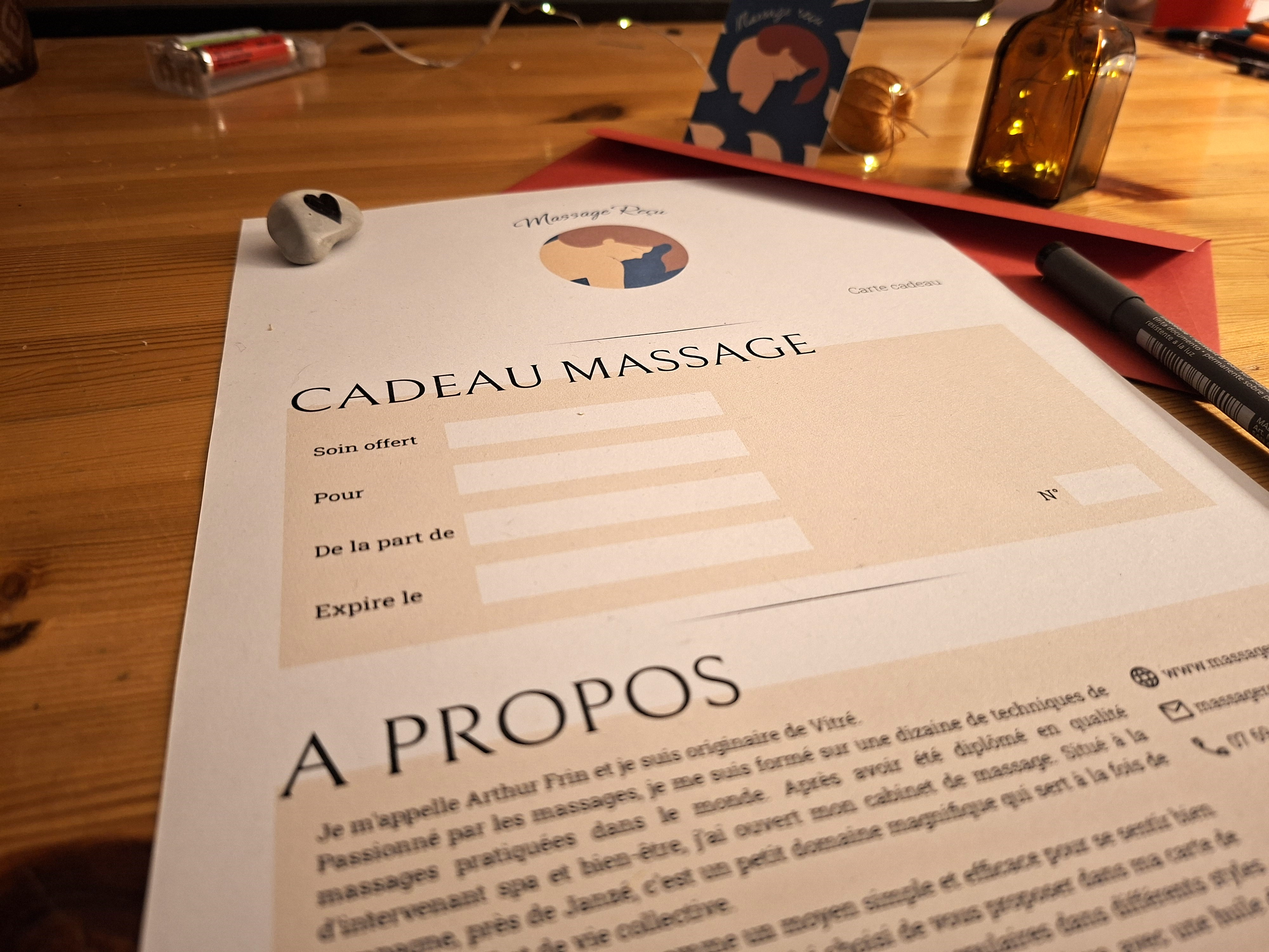
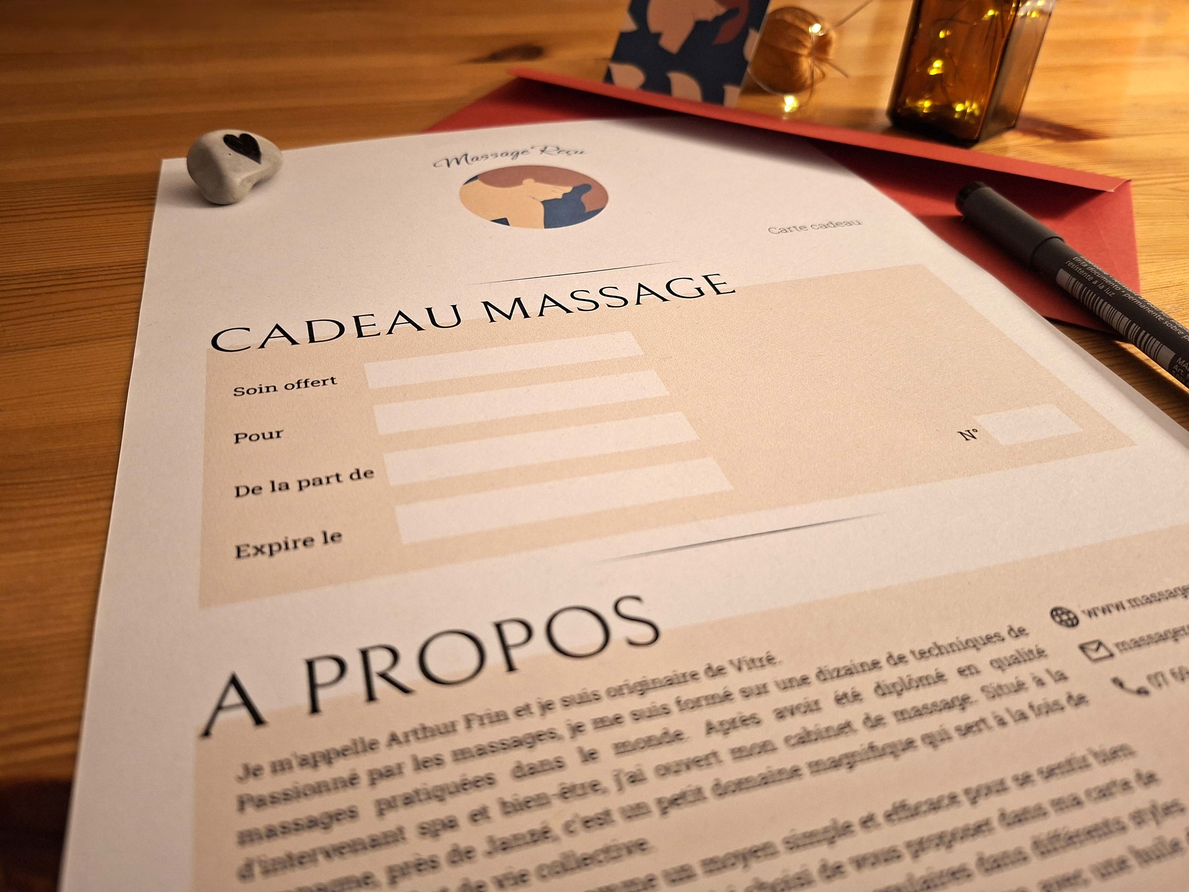
changement de la photo

diff --git a/src/app/carte-cadeau/page.tsx b/src/app/carte-cadeau/page.tsx
@@ -40,7 +40,7 @@ export default function CarteCadeauPage() {
               src="/assets/img/carte cadeau/photo_carte_cadeau.jpg"
               alt="Aperçu de la carte cadeau"
               width={520}
-              height={420}
+              height={390}
               quality={90}
               priority
               placeholder="blur"
